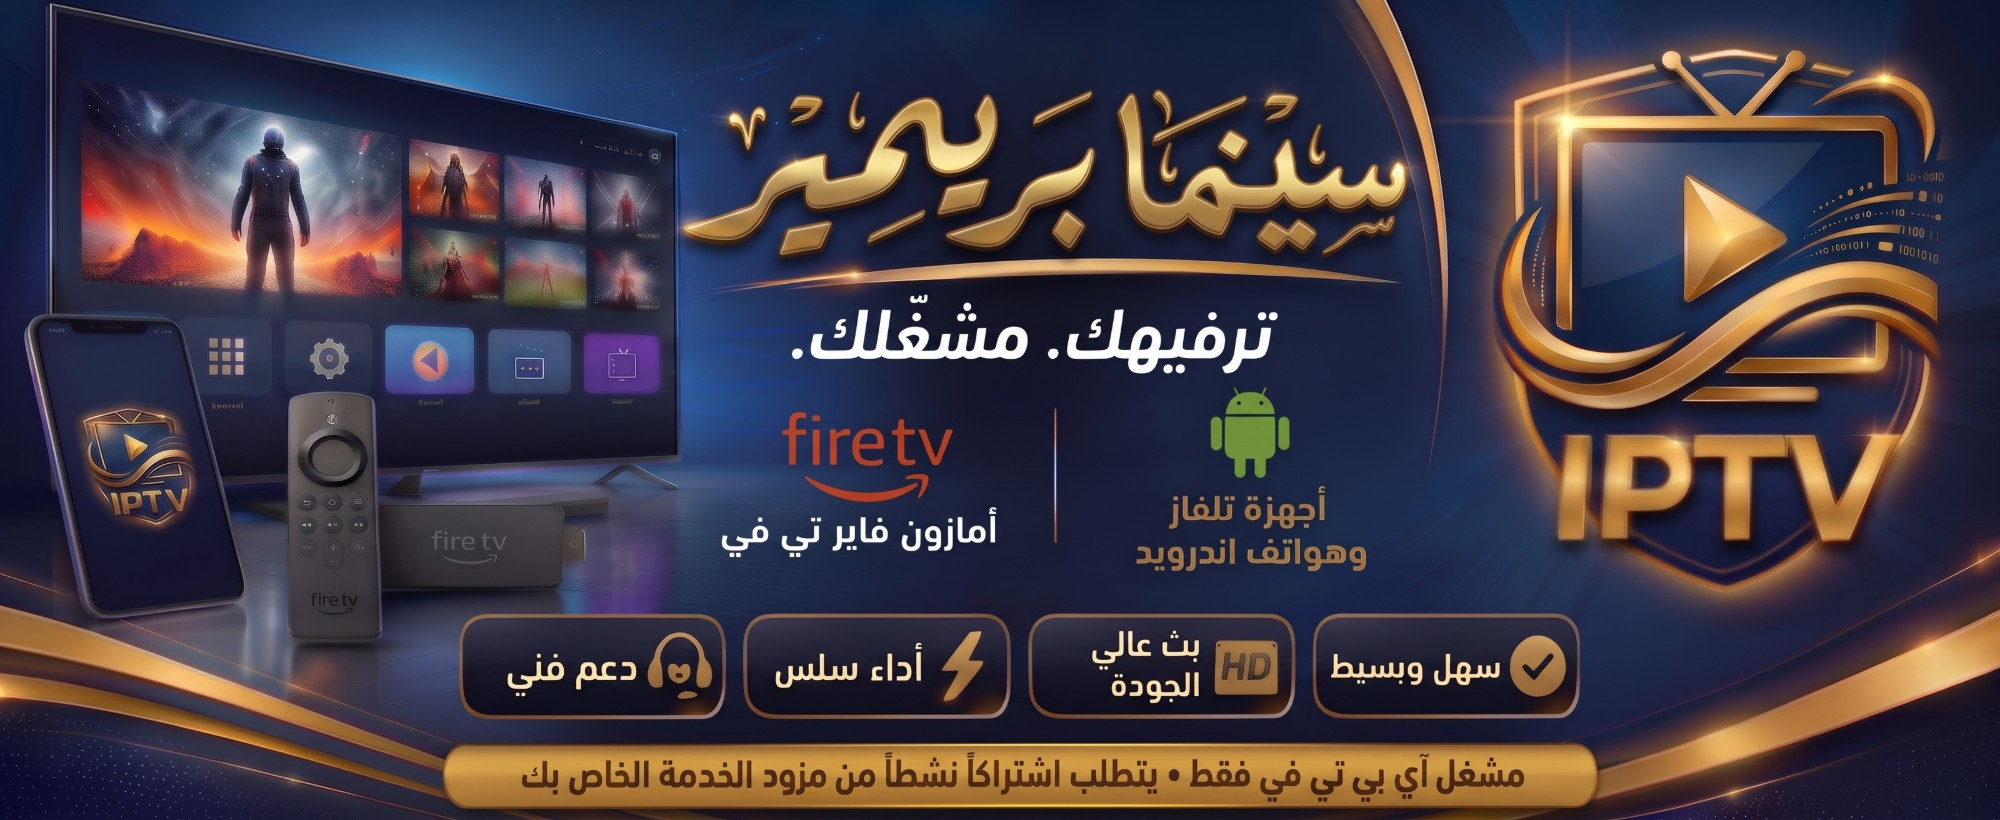
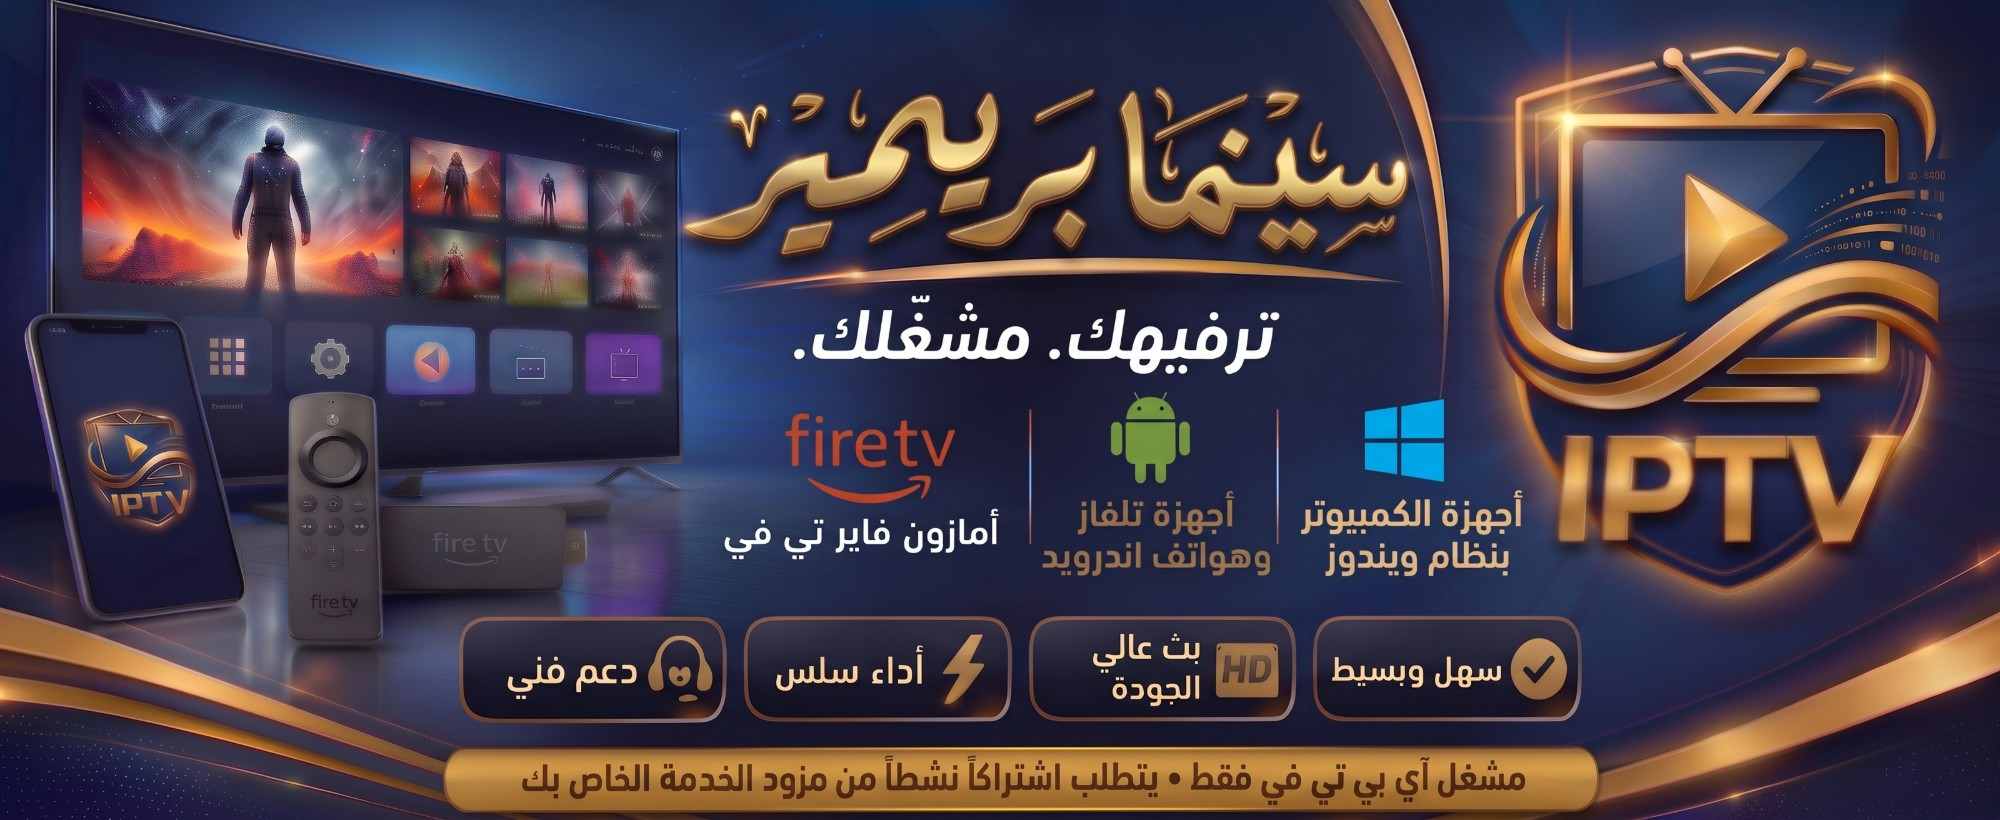
New English and Arabic posters

diff --git a/index.html b/index.html
@@ -68,12 +68,12 @@ footer { text-align: center; color: rgb(132,148,168); font-size: 13px; margin-to
 mark { background: rgba(216,180,90,0.35); color: #fff; border-radius: 3px; }
 @media (max-width: 600px) { .ver ul { padding-left: 34px; } .badge { min-width: 52px; font-size: 13px; } .tag { display: none; } }
 </style></head><body><main class="wrap"><header class="hero"><h1>Cinema Premiere IPTV Player</h1><p>A simple IPTV player for your compatible devices. Choose your platform below to get the app.</p><div class="dl" id="dl-total" hidden><svg viewBox="0 0 24 24" fill="none" stroke="#d8b45a" stroke-width="2.2" stroke-linecap="round" stroke-linejoin="round" aria-hidden="true"><path d="M12 3v12"/><path d="M7 10l5 5 5-5"/><path d="M4 17v2a2 2 0 0 0 2 2h12a2 2 0 0 0 2-2v-2"/></svg><span><b id="dl-n">0</b> downloads</span></div></header>
-<section class="posters"><img src="poster-english.jpg?v=cp1" alt="Cinema Premiere IPTV Player – Your Entertainment. Your Player. Available on Android TV, Amazon Fire TV and Android phones."></section>
+<section class="posters"><img src="poster-english.jpg?v=cp3" alt="Cinema Premiere IPTV Player – Your Entertainment. Your Player. Available on Android TV, Amazon Fire TV and Android phones."></section>
 <section class="grid">
 <div class="card"><h2>Windows PC</h2><p>Download the Cinema Premiere IPTV Player installer for your Windows computer.</p><a class="btn" href="https://github.com/danramzi-eagle5871/dans-iptv/releases/latest/download/Dans-IPTV-Setup.exe" target="_blank" rel="noopener">Download for Windows</a><div class="dl-card" id="dl-win" hidden><svg viewBox="0 0 24 24" fill="none" stroke="#d8b45a" stroke-width="2.2" stroke-linecap="round" stroke-linejoin="round" aria-hidden="true"><path d="M12 3v12"/><path d="M7 10l5 5 5-5"/><path d="M4 17v2a2 2 0 0 0 2 2h12a2 2 0 0 0 2-2v-2"/></svg><span><b>0</b> downloads</span></div></div>
 <div class="card"><h2>Android TV, Amazon Fire TV &amp; Android Mobile</h2><p>Install the app using the Downloader app on your device. The same code works for all Android devices.</p><div class="code">7954037</div><a class="btn" href="https://aftv.news/7954037" target="_blank" rel="noopener">Get the Android App</a> <a class="btn" style="background:transparent;color:var(--gold);border:1px solid var(--gold)" href="https://github.com/danramzi-eagle5871/dans-iptv/releases/latest/download/DansIPTV-Share.apk">Direct download (.apk)</a><div class="dl-card" id="dl-and" hidden><svg viewBox="0 0 24 24" fill="none" stroke="#d8b45a" stroke-width="2.2" stroke-linecap="round" stroke-linejoin="round" aria-hidden="true"><path d="M12 3v12"/><path d="M7 10l5 5 5-5"/><path d="M4 17v2a2 2 0 0 0 2 2h12a2 2 0 0 0 2-2v-2"/></svg><span><b>0</b> downloads</span></div></div>
 </section>
-<section class="posters" style="margin-top:24px"><img src="poster-arabic.jpg?v=cp2" alt="سينما بريمير – ترفيهك. مشغّلك." lang="ar"></section>
+<section class="posters" style="margin-top:24px"><img src="poster-arabic.jpg?v=cp4" alt="سينما بريمير – ترفيهك. مشغّلك." lang="ar"></section>
 <section class="updates" id="updates"><h2>Latest update</h2><p><span class="date" id="upd-line">Loading…</span></p><p id="upd-notes"></p><p><span class="date" id="upd-win"></span></p><p>If the app tells you a new version is available, download it from the buttons above and install it over your current one.</p></section>
 <script>
 fetch("version.json",{cache:"no-store"}).then(function(r){return r.json()}).then(function(d){
